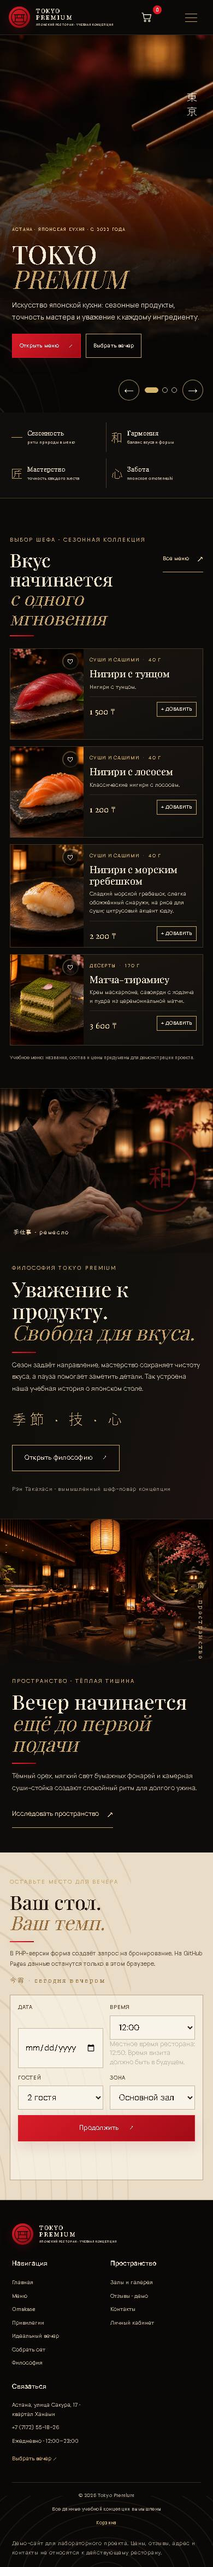
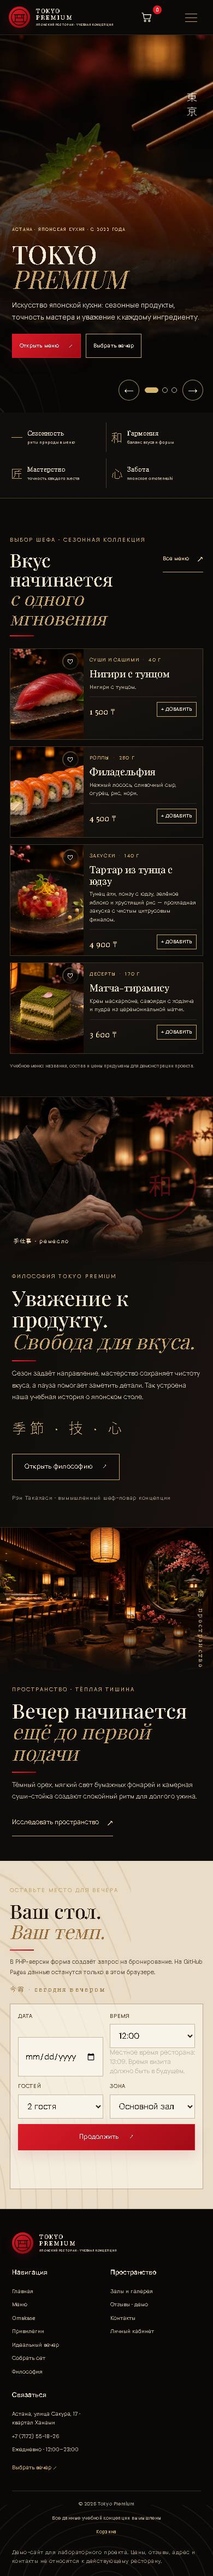
Curate varied public dishes on homepage

diff --git a/docs/index.html b/docs/index.html
@@ -44,14 +44,14 @@
         <div class="home-dish-copy"><p class="dish-overline">Суши и сашими <span>·</span> 40 г</p><h3><a href="dish-6.html">Нигири с тунцом</a></h3><p class="dish-description">Нигири с тунцом.</p><div class="home-dish-bottom"><strong>1 500 ₸</strong><button class="add-to-cart" type="button" data-id="6" aria-label="Добавить Нигири с тунцом в корзину"><span aria-hidden="true">+</span> Добавить</button></div></div>
       </article>
             <article class="home-dish-card reveal">
-        <a class="home-dish-photo" href="dish-3.html" aria-label="Подробнее: Нигири с лососем"><img src="assets/food/03-nigiri-salmon.webp" width="960" height="720" alt="Нигири с лососем — блюдо учебного меню" loading="lazy" decoding="async"></a>
-        <button class="favorite-btn" type="button" data-favorite="3" aria-label="Сохранить Нигири с лососем в избранное">♡</button>
-        <div class="home-dish-copy"><p class="dish-overline">Суши и сашими <span>·</span> 40 г</p><h3><a href="dish-3.html">Нигири с лососем</a></h3><p class="dish-description">Классические нигири с лососем.</p><div class="home-dish-bottom"><strong>1 200 ₸</strong><button class="add-to-cart" type="button" data-id="3" aria-label="Добавить Нигири с лососем в корзину"><span aria-hidden="true">+</span> Добавить</button></div></div>
+        <a class="home-dish-photo" href="dish-1.html" aria-label="Подробнее: Филадельфия"><img src="assets/food/01-philadelphia.webp" width="960" height="720" alt="Филадельфия — блюдо учебного меню" loading="lazy" decoding="async"></a>
+        <button class="favorite-btn" type="button" data-favorite="1" aria-label="Сохранить Филадельфия в избранное">♡</button>
+        <div class="home-dish-copy"><p class="dish-overline">Роллы <span>·</span> 280 г</p><h3><a href="dish-1.html">Филадельфия</a></h3><p class="dish-description">Нежный лосось, сливочный сыр, огурец, рис, нори.</p><div class="home-dish-bottom"><strong>4 500 ₸</strong><button class="add-to-cart" type="button" data-id="1" aria-label="Добавить Филадельфия в корзину"><span aria-hidden="true">+</span> Добавить</button></div></div>
       </article>
             <article class="home-dish-card reveal">
-        <a class="home-dish-photo" href="dish-21.html" aria-label="Подробнее: Нигири с морским гребешком"><img src="assets/food/21-nigiri-scallop.webp" width="960" height="720" alt="Нигири с морским гребешком — блюдо учебного меню" loading="lazy" decoding="async"></a>
-        <button class="favorite-btn" type="button" data-favorite="21" aria-label="Сохранить Нигири с морским гребешком в избранное">♡</button>
-        <div class="home-dish-copy"><p class="dish-overline">Суши и сашими <span>·</span> 40 г</p><h3><a href="dish-21.html">Нигири с морским гребешком</a></h3><p class="dish-description">Сладкий морской гребешок, слегка обожжённый снаружи, на рисе для суши; цитрусовый акцент юдзу.</p><div class="home-dish-bottom"><strong>2 200 ₸</strong><button class="add-to-cart" type="button" data-id="21" aria-label="Добавить Нигири с морским гребешком в корзину"><span aria-hidden="true">+</span> Добавить</button></div></div>
+        <a class="home-dish-photo" href="dish-12.html" aria-label="Подробнее: Тартар из тунца с юдзу"><img src="assets/food/12-tuna-tartare-yuzu.webp" width="960" height="720" alt="Тартар из тунца с юдзу — блюдо учебного меню" loading="lazy" decoding="async"></a>
+        <button class="favorite-btn" type="button" data-favorite="12" aria-label="Сохранить Тартар из тунца с юдзу в избранное">♡</button>
+        <div class="home-dish-copy"><p class="dish-overline">Закуски <span>·</span> 140 г</p><h3><a href="dish-12.html">Тартар из тунца с юдзу</a></h3><p class="dish-description">Тунец ахи, понзу с юдзу, зелёное яблоко и хрустящий рис — прохладная закуска с чистым цитрусовым финалом.</p><div class="home-dish-bottom"><strong>4 900 ₸</strong><button class="add-to-cart" type="button" data-id="12" aria-label="Добавить Тартар из тунца с юдзу в корзину"><span aria-hidden="true">+</span> Добавить</button></div></div>
       </article>
             <article class="home-dish-card reveal">
         <a class="home-dish-photo" href="dish-19.html" aria-label="Подробнее: Матча-тирамису"><img src="assets/food/19-matcha-tiramisu.webp" width="960" height="720" alt="Матча-тирамису — блюдо учебного меню" loading="lazy" decoding="async"></a>
@@ -76,7 +76,7 @@
 
   <section class="home-booking" id="booking" data-story-chapter="booking">
     <div class="booking-intro" data-story-reveal><p class="kicker">Оставьте место для вечера</p><h2>Ваш стол.<br><em>Ваш темп.</em></h2><p>В PHP-версии форма создаёт запрос на бронирование. На GitHub Pages данные останутся только в этом браузере.</p><span class="booking-jp" lang="ja" aria-hidden="true">今宵 · сегодня вечером</span></div>
[2 lines of base64/hex data omitted]
   </section>
 </main>
 <script>window.DISHES=[{"id":1,"category":"rolls","name":"Филадельфия","description":"Нежный лосось, сливочный сыр, огурец, рис, нори.","weight":"280 г","price":4500,"image_url":"assets\/food\/01-philadelphia.webp","featured":1,"active":1,"sort_order":1,"category_name":"Роллы"},{"id":3,"category":"sushi","name":"Нигири с лососем","description":"Классические нигири с лососем.","weight":"40 г","price":1200,"image_url":"assets\/food\/03-nigiri-salmon.webp","featured":0,"active":1,"sort_order":1,"category_name":"Суши и сашими"},{"id":4,"category":"drinks","name":"Матча латте","description":"Японский чай матча на кокосовом молоке.","weight":"300 мл","price":2500,"image_url":"assets\/food\/04-matcha-latte.webp","featured":0,"active":1,"sort_order":1,"category_name":"Напитки"},{"id":7,"category":"hot","name":"Рамен с говядиной","description":"Говяжий бульон, лапша, говядина и яйцо адзитама.","weight":"550 г","price":4800,"image_url":"assets\/food\/07-ramen-beef.webp","featured":1,"active":1,"sort_order":1,"category_name":"Горячее"},{"id":8,"category":"desserts","name":"Моти","description":"Рисовое тесто с ягодной начинкой.","weight":"120 г","price":2800,"image_url":"assets\/food\/08-mochi.webp","featured":0,"active":1,"sort_order":1,"category_name":"Десерты"},{"id":12,"category":"starters","name":"Тартар из тунца с юдзу","description":"Тунец ахи, понзу с юдзу, зелёное яблоко и хрустящий рис — прохладная закуска с чистым цитрусовым финалом.","weight":"140 г","price":4900,"image_url":"assets\/food\/12-tuna-tartare-yuzu.webp","featured":0,"active":1,"sort_order":1,"category_name":"Закуски"},{"id":14,"category":"soups","name":"Мисо-суп с вакаме","description":"Светлый бульон даси, паста сира-мисо, тофу, вакаме и зелёный лук.","weight":"300 мл","price":2400,"image_url":"assets\/food\/14-miso-soup.webp","featured":0,"active":1,"sort_order":1,"category_name":"Супы"},{"id":2,"category":"rolls","name":"Калифорния","description":"Снежный краб, авокадо, огурец, икра тобико, рис.","weight":"260 г","price":4000,"image_url":"assets\/food\/02-california.webp","featured":1,"active":1,"sort_order":2,"category_name":"Роллы"},{"id":6,"category":"sushi","name":"Нигири с тунцом","description":"Нигири с тунцом.","weight":"40 г","price":1500,"image_url":"assets\/food\/06-nigiri-tuna.webp","featured":0,"active":1,"sort_order":2,"category_name":"Суши и сашими"},{"id":11,"category":"hot","name":"Удон с курицей терияки","description":"Пшеничная лапша удон, курица и овощи в соусе терияки.","weight":"450 г","price":4200,"image_url":"assets\/food\/11-udon-chicken.webp","featured":0,"active":1,"sort_order":2,"category_name":"Горячее"},{"id":13,"category":"starters","name":"Гёдза с уткой","description":"Тонкое тесто, томлёная утка, имбирь и кунжутное масло. Подаём с соусом понзу собственного состава.","weight":"6 шт.","price":4600,"image_url":"assets\/food\/13-duck-gyoza.webp","featured":0,"active":1,"sort_order":2,"category_name":"Закуски"},{"id":19,"category":"desserts","name":"Матча-тирамису","description":"Крем маскарпоне, савоярди с ходзича и пудра из церемониальной матчи.","weight":"170 г","price":3600,"image_url":"assets\/food\/19-matcha-tiramisu.webp","featured":1,"active":1,"sort_order":2,"category_name":"Десерты"},{"id":20,"category":"drinks","name":"Юдзу-лимонад","description":"Домашняя цитрусовая основа юдзу, содовая и тонкая нота свежего имбиря.","weight":"300 мл","price":2300,"image_url":"assets\/food\/20-yuzu-lemonade.webp","featured":0,"active":1,"sort_order":2,"category_name":"Напитки"},{"id":5,"category":"rolls","name":"Зелёный дракон","description":"Копчёный угорь, авокадо, сливочный сыр, соус унаги, кунжут.","weight":"300 г","price":5500,"image_url":"assets\/food\/05-green-dragon.webp","featured":0,"active":1,"sort_order":3,"category_name":"Роллы"},{"id":10,"category":"sushi","name":"Гункан с икрой","description":"Рис и нори, наполненные икрой лосося.","weight":"50 г","price":1800,"image_url":"assets\/food\/10-gunkan-roe.webp","featured":0,"active":1,"sort_order":3,"category_name":"Суши и сашими"},{"id":15,"category":"hot","name":"Эби темпура","description":"Тигровые креветки в лёгком тесте, сезонные овощи и тэнцую с дайконом.","weight":"240 г","price":5600,"image_url":"assets\/food\/15-ebi-tempura.webp","featured":1,"active":1,"sort_order":3,"category_name":"Горячее"},{"id":9,"category":"rolls","name":"Запечённый ролл «Вулкан»","description":"Лосось, огурец и сливочный сыр под шапкой из соуса спайси.","weight":"320 г","price":5200,"image_url":"assets\/food\/09-volcano.webp","featured":0,"active":1,"sort_order":4,"category_name":"Роллы"},{"id":16,"category":"hot","name":"Донбури с угрём унаги","description":"Рис косихикари, угорь с глазурью кабаяки, тамаго и маринованный дайкон.","weight":"420 г","price":6900,"image_url":"assets\/food\/16-eel-donburi.webp","featured":0,"active":1,"sort_order":4,"category_name":"Горячее"},{"id":21,"category":"sushi","name":"Нигири с морским гребешком","description":"Сладкий морской гребешок, слегка обожжённый снаружи, на рисе для суши; цитрусовый акцент юдзу.","weight":"40 г","price":2200,"image_url":"assets\/food\/21-nigiri-scallop.webp","featured":0,"active":1,"sort_order":4,"category_name":"Суши и сашими"}];</script>

diff --git a/index.php b/index.php
@@ -7,7 +7,7 @@ foreach($homeCatalog as $dish)$homeById[(int)$dish['id']]=$dish;
 $featured=[];$featuredImages=[];
 // Keep the homepage editorial order independent of category sort_order and
 // use only public dishes; Secret Menu items remain behind their access rule.
-foreach([6,3,21,19] as $dishId){$dish=$homeById[$dishId]??null;if(!$dish)continue;$image=trim((string)$dish['image_url']);if($image===''||isset($featuredImages[$image]))continue;$featuredImages[$image]=true;$featured[]=$dish;}
+foreach([6,1,12,19] as $dishId){$dish=$homeById[$dishId]??null;if(!$dish)continue;$image=trim((string)$dish['image_url']);if($image===''||isset($featuredImages[$image]))continue;$featuredImages[$image]=true;$featured[]=$dish;}
 foreach($homeCatalog as $dish){if(count($featured)>=4)break;$image=trim((string)$dish['image_url']);if($image===''||isset($featuredImages[$image]))continue;$featuredImages[$image]=true;$featured[]=$dish;}
 $heroScenes=[
   ['image'=>'assets/generated/home-hero-salmon-nigiri-v3.webp','alt'=>'Нигири с лососем подают японскими палочками в тёплом свете — учебная концепция','eyebrow'=>setting('hero_eyebrow'),'title'=>'TOKYO','accent'=>'PREMIUM','lead'=>'Искусство японской кухни: сезонные продукты, точность мастера и уважение к каждому ингредиенту.','primary'=>['label'=>'Открыть меню','href'=>'menu.php'],'secondary'=>['label'=>'Выбрать вечер','href'=>'pages.php?page=booking']],

diff --git a/project-docs/visual-qa/home-editorial-curation-2026-11-23/README.md b/project-docs/visual-qa/home-editorial-curation-2026-11-23/README.md
@@ -4,7 +4,7 @@ Compared `design-references/01-home.png` with the current PHP and GitHub Pages h
 
 ## Changes
 
-- Homepage recommendations now use a deliberate public-catalog order: tuna nigiri, salmon nigiri, scallop nigiri, and matcha tiramisu. The order no longer depends on cross-category `sort_order`, and hidden Secret Menu items are not exposed.
+- Homepage recommendations now use a deliberate public-catalog order: tuna nigiri, Philadelphia roll, tuna tartare with yuzu, and matcha tiramisu. This keeps real catalog names, photos, weights, prices, and cart IDs together while giving the row a nigiri/roll/chilled fish/dessert rhythm close to reference 01. The order no longer depends on cross-category `sort_order`; the regression also ensures a Secret Menu-only set is not used as a public recommendation.
 - Removed the duplicate home Omakase and sample-review sections so restaurant space transitions directly into the booking form, matching the approved home composition. Omakase and reviews remain accessible from their dedicated routes and site navigation.
 - The recommendation area remains four cards on desktop and a single-column sequence on mobile.
 
